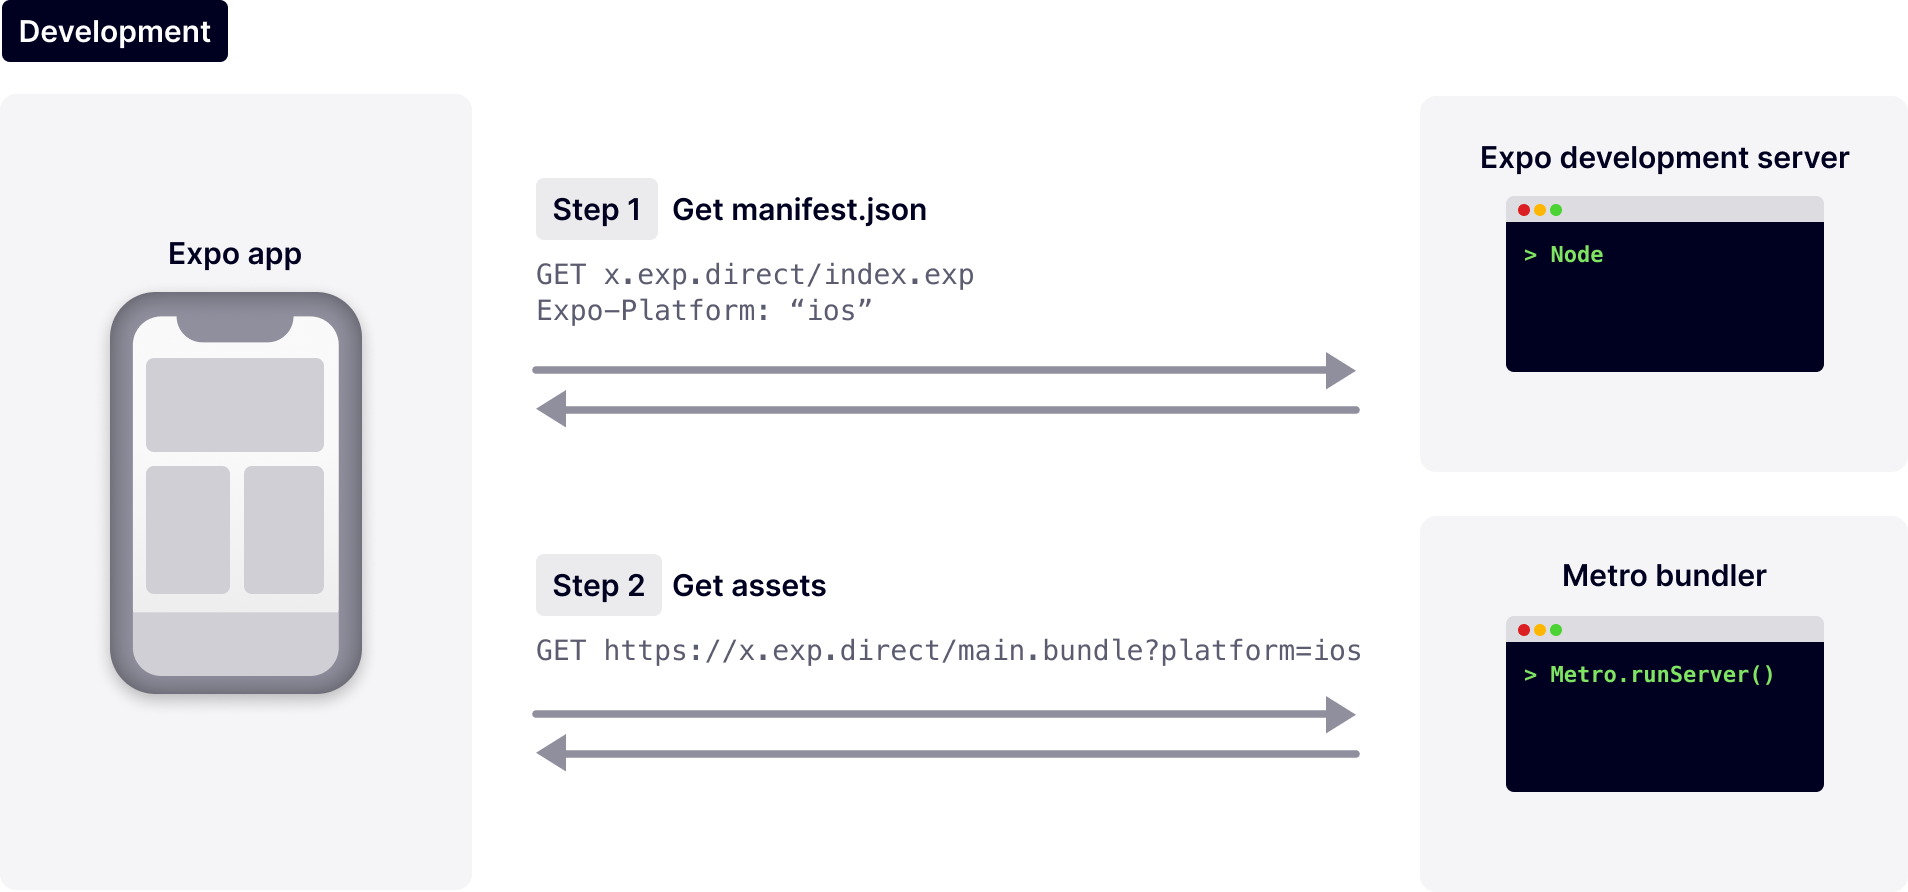
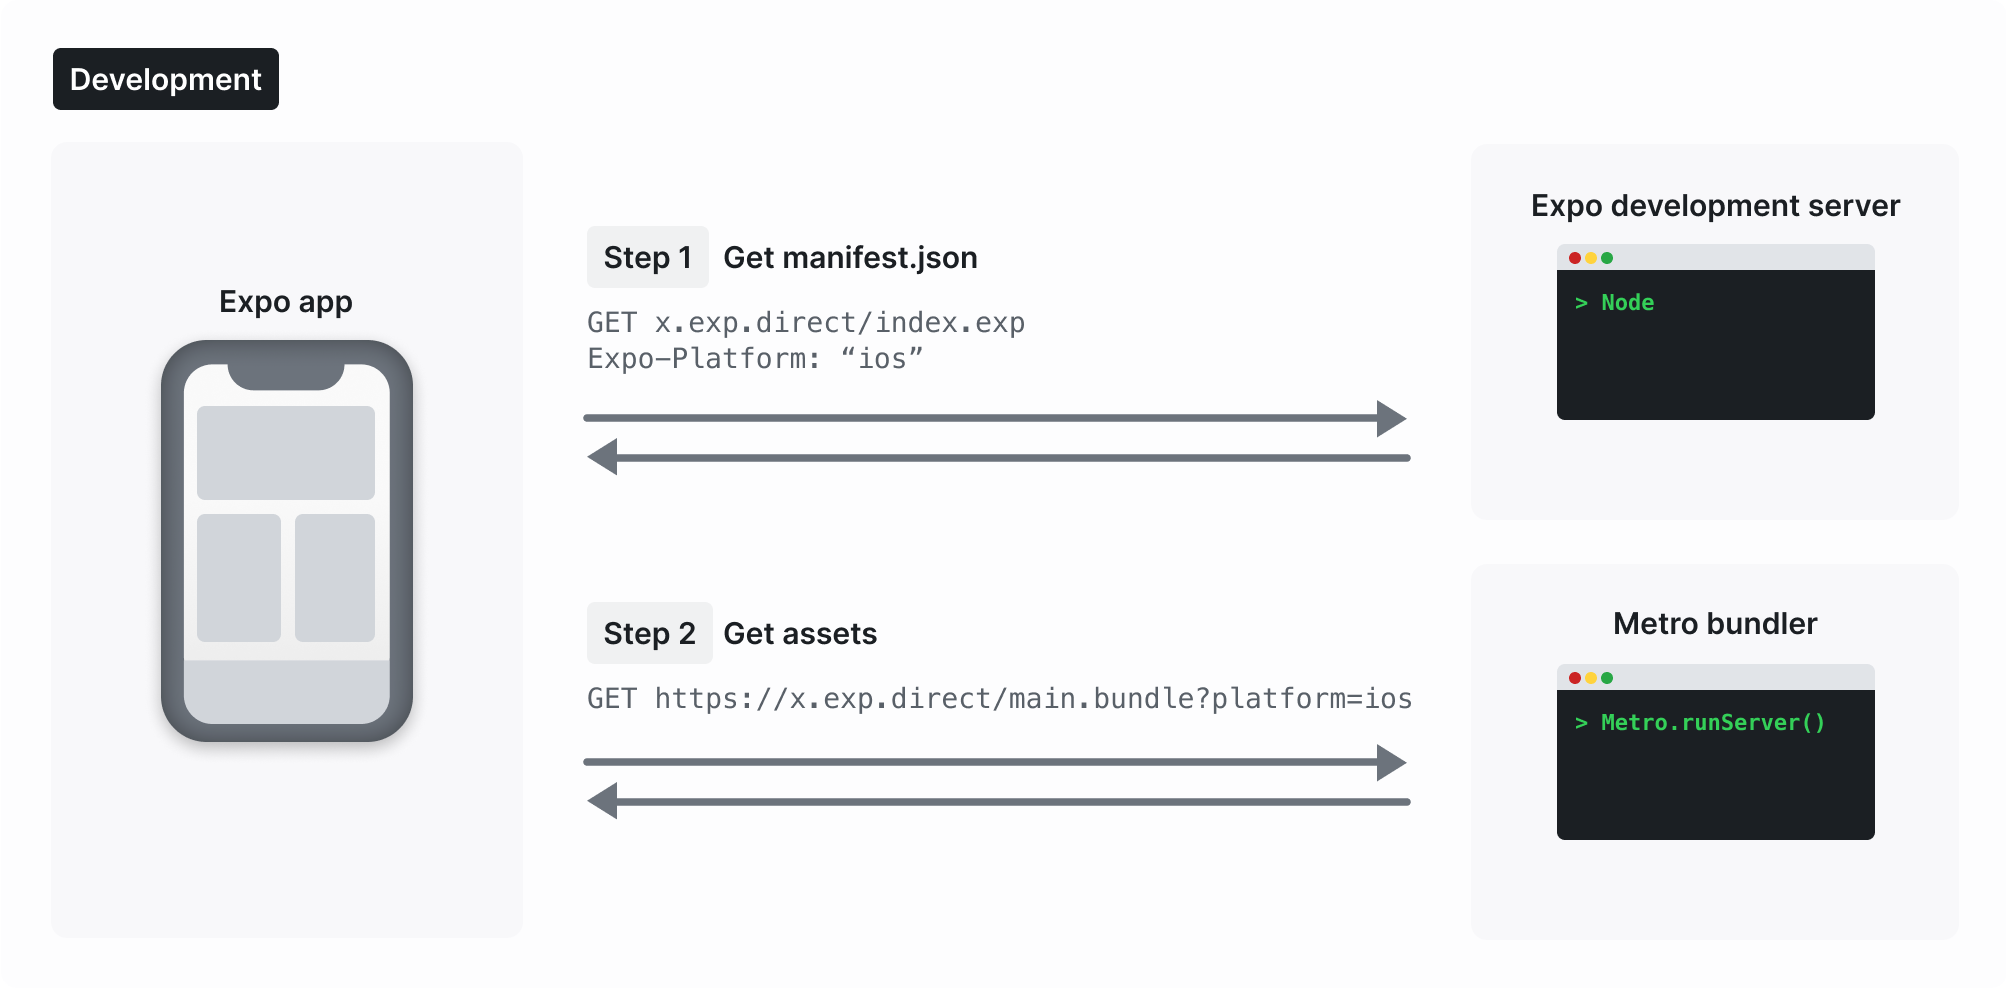
[docs] Dark theme fixes (#12064)
* fix summary text style, how expo works png

* remove visited color

diff --git a/docs/global-styles/extras.ts b/docs/global-styles/extras.ts
@@ -26,6 +26,7 @@ export const globalExtras = css`
     outline: none;
     cursor: pointer;
     margin-bottom: 0.5rem;
+    color: ${theme.text.default};
 
     ::-webkit-details-marker {
       color: ${theme.icon.default};

diff --git a/docs/components/DocumentationSidebarLink.tsx b/docs/components/DocumentationSidebarLink.tsx
@@ -39,7 +39,7 @@ const STYLES_DEFAULT = css`
   font-size: 15px;
 
   :visited {
-    color: ${theme.text.secondary};
+    color: ${theme.text.default};
   }
 
   :hover {

diff --git a/docs/pages/guides/setting-up-continuous-integration.md b/docs/pages/guides/setting-up-continuous-integration.md
@@ -51,9 +51,7 @@ script:
 
 > Put this into `.travis.yml` in the root of your repository.
 
-<center>
-	<a href="https://travis-ci.com/byCedric/expo-guide-ci/builds/79027881" target="_blank">See it in action</a>
-</center>
+<a href="https://travis-ci.com/byCedric/expo-guide-ci/builds/79027881" target="_blank">See it in action</a>
 
 </p>
 </details>
@@ -80,9 +78,7 @@ jest-tests:
 
 > Put this into `.gitlab-ci.yml` in the root of your repository.
 
-<center>
-	<a href="https://gitlab.com/byCedric/expo-guide-ci/pipelines/25800111" target="_blank">See it in action</a>
-</center>
+<a href="https://gitlab.com/byCedric/expo-guide-ci/pipelines/25800111" target="_blank">See it in action</a>
 
 </p>
 </details>
@@ -109,9 +105,7 @@ pipelines:
 
 > Put this into `bitbucket-pipelines.yml` in the root of your repository.
 
-<center>
-	<a href="https://bitbucket.org/byCedric/expo-guide-ci/addon/pipelines/home#!/results/2" target="_blank">See it in action</a>
-</center>
+<a href="https://bitbucket.org/byCedric/expo-guide-ci/addon/pipelines/home#!/results/2" target="_blank">See it in action</a>
 
 </p>
 </details>
@@ -149,9 +143,7 @@ script:
 
 > Put this into `.travis.yml` in the root of your repository.
 
-<center>
-	<a href="https://travis-ci.com/byCedric/expo-guide-ci/builds/79027970" target="_blank">See it in action</a>
-</center>
+<a href="https://travis-ci.com/byCedric/expo-guide-ci/builds/79027970" target="_blank">See it in action</a>
 
 </p>
 </details>
@@ -179,9 +171,7 @@ jest-tests:
 
 > Put this into `.gitlab-ci.yml` in the root of your repository.
 
-<center>
-	<a href="https://gitlab.com/byCedric/expo-guide-ci/pipelines/25800165" target="_blank">See it in action</a>
-</center>
+<a href="https://gitlab.com/byCedric/expo-guide-ci/pipelines/25800165" target="_blank">See it in action</a>
 
 </p>
 </details>
@@ -210,9 +200,7 @@ pipelines:
 
 > Put this into `bitbucket-pipelines.yml` in the root of your repository.
 
-<center>
-	<a href="https://bitbucket.org/byCedric/expo-guide-ci/addon/pipelines/home#!/results/3" target="_blank">See it in action</a>
-</center>
+<a href="https://bitbucket.org/byCedric/expo-guide-ci/addon/pipelines/home#!/results/3" target="_blank">See it in action</a>
 
 </p>
 </details>
@@ -300,9 +288,7 @@ jobs:
 
 > Put this into `.travis.yml` in the root of your repository.
 
-<center>
-	<a href="https://travis-ci.com/byCedric/expo-guide-ci/builds/79032797" target="_blank">See it in action</a>
-</center>
+<a href="https://travis-ci.com/byCedric/expo-guide-ci/builds/79032797" target="_blank">See it in action</a>
 
 </p>
 </details>
@@ -337,9 +323,7 @@ expo-deployments:
 
 > Put this into `.gitlab-ci.yml` in the root of your repository.
 
-<center>
-	<a href="https://gitlab.com/byCedric/expo-guide-ci/pipelines/25806602" target="_blank">See it in action</a>
-</center>
+<a href="https://gitlab.com/byCedric/expo-guide-ci/pipelines/25806602" target="_blank">See it in action</a>
 
 </p>
 </details>
@@ -378,9 +362,7 @@ pipelines:
 
 > Put this into `bitbucket-pipelines.yml` in the root of your repository.
 
-<center>
-	<a href="https://bitbucket.org/byCedric/expo-guide-ci/addon/pipelines/home#!/results/11" target="_blank">See it in action</a>
-</center>
+<a href="https://bitbucket.org/byCedric/expo-guide-ci/addon/pipelines/home#!/results/11" target="_blank">See it in action</a>
 
 </p>
 </details>
